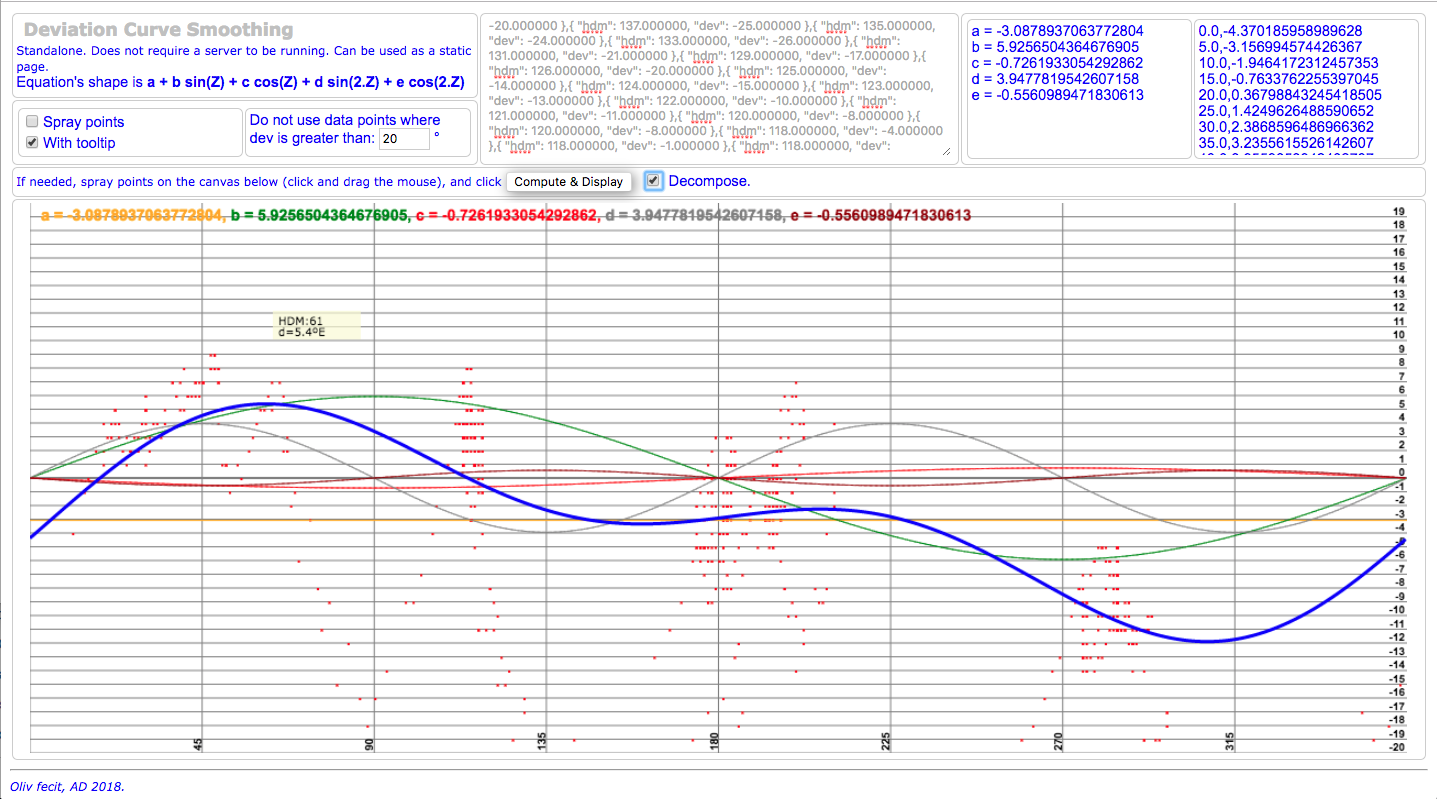
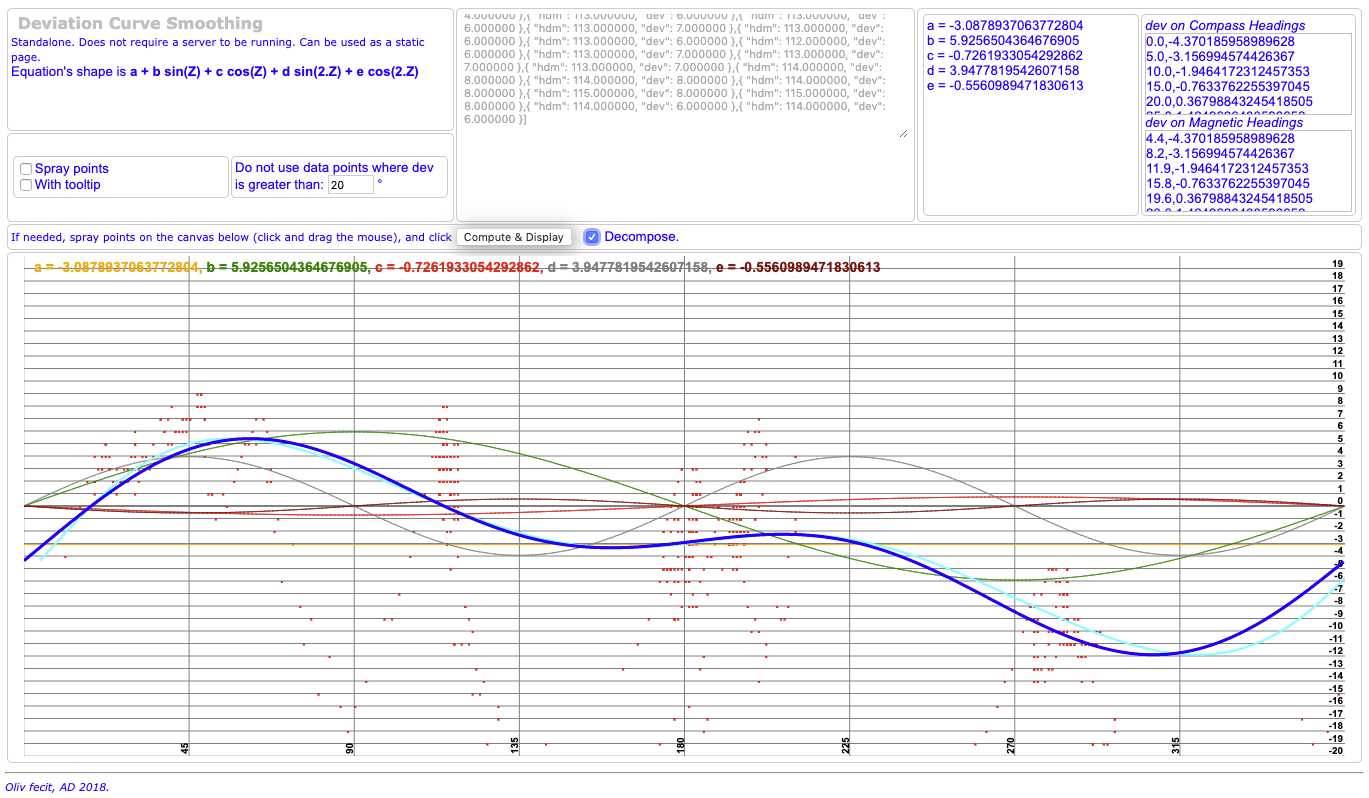
Doc

diff --git a/Project.Trunk/Deviation.Tool/README.md b/Project.Trunk/Deviation.Tool/README.md
@@ -145,7 +145,8 @@ In the above, `W` is called the Compass Variation
 
 ![The curve](./screenshot.01.png)
 
----
+The cyan line is showing the `dev` on `Magnetic Headings`.
 
-## TODO
-- Inverted (hdm -> dev)
+The two top-right boxes contain the `csv` values to put in the files holding the deviation curves.
+
+---
